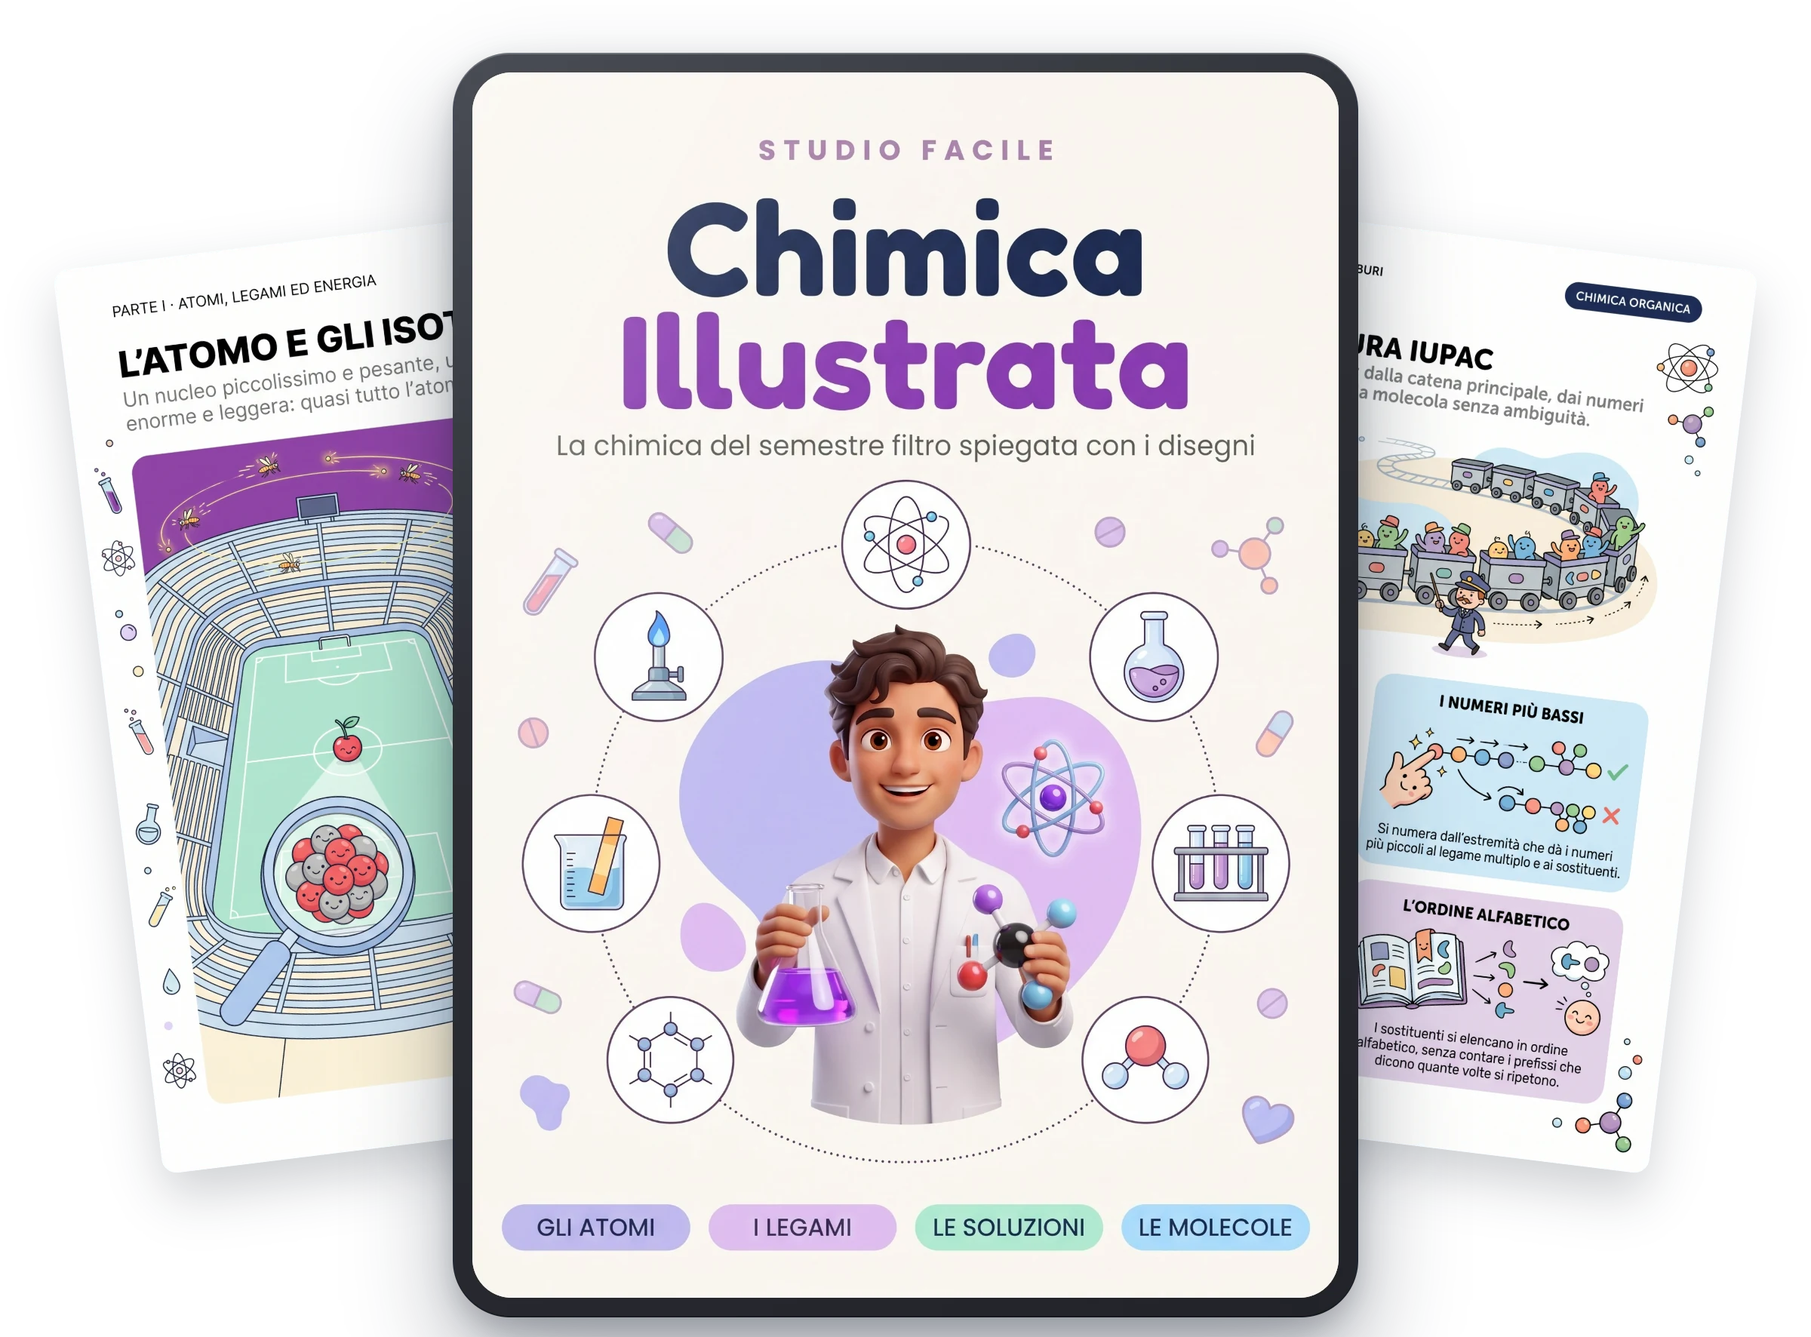
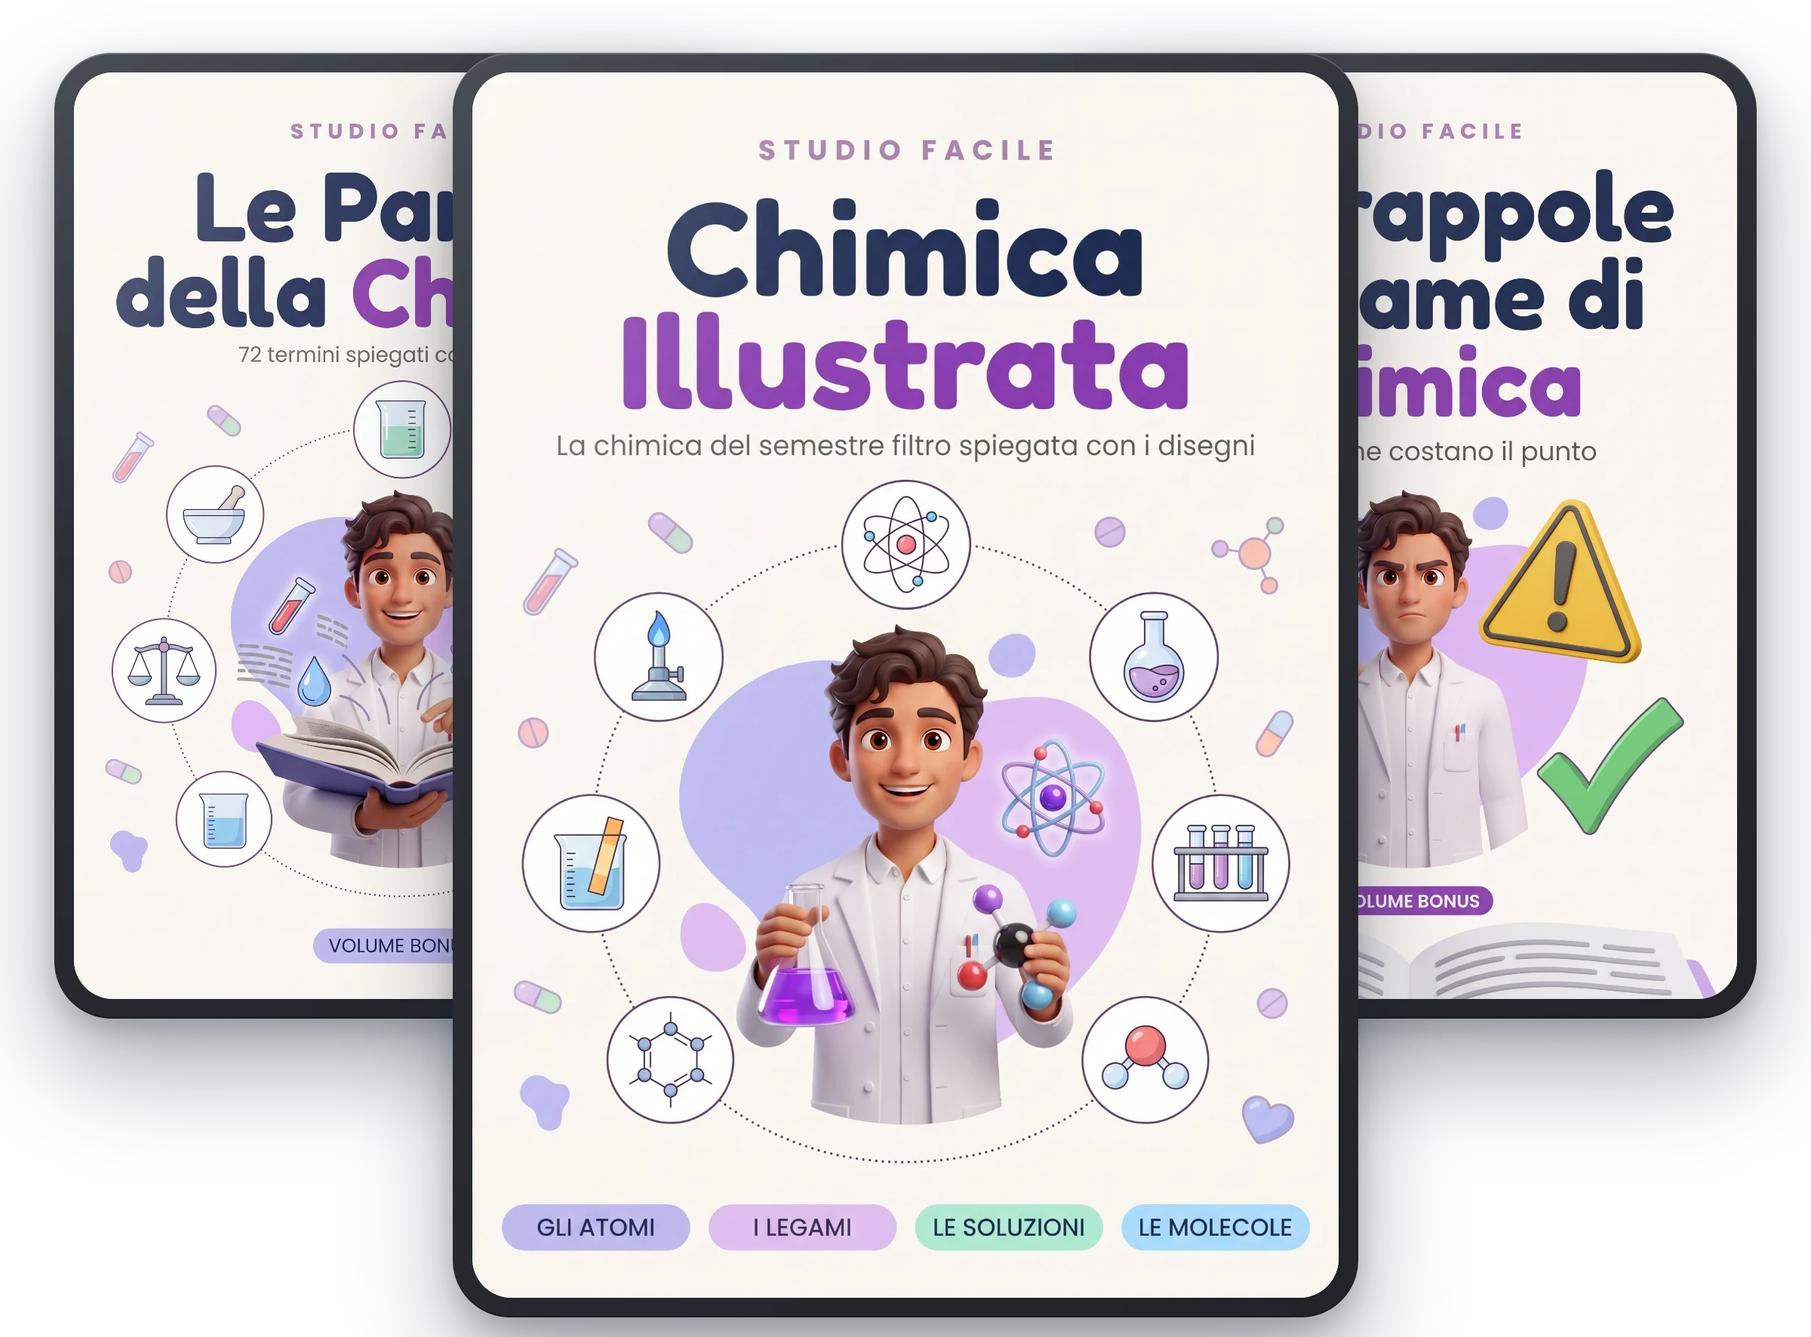
chimica: i due bonus esistono, e stanno nell'eroe accanto al libro
I bonus della landing erano «Le Parole della Chimica», mai scritto, e «Quiz
di Chimica», solo una banca dati senza PDF. Adesso sono due volumi veri da
venti pagine, generati con il motore dei bonus di fisica:

  Le Parole della Chimica          72 termini, quattro per pagina
  Le Trappole d'Esame di Chimica   18 errori che costano il punto

L'eroe usa la geometria dei kit di tutte le altre landing (kits_mockup.py):
il libro grande al centro e i due bonus ai lati, tutti e tre nel tablet.
Prima erano due fogli sciolti dietro al tablet e la pagina non sembrava
della stessa collana.

Le schede dei bonus passano da testo con un'icona a .bonus-item-with-image,
con la copertina vera e due pagine da sfogliare per ognuno — quello che il
TODO del generatore chiedeva da settembre: mai copertine finte.

Changed region(s): [[0.0, 0.031, 0.2812, 0.9001], [0.7188, 0.031, 1.0, 0.9001]]

diff --git a/chimica.html b/chimica.html
@@ -2089,7 +2089,7 @@
     }
   </style>
   <script type="application/ld+json">
-{"@context": "https://schema.org", "@graph": [{"@type": "Product", "name": "Kit di Chimica Illustrata", "brand": {"@type": "Brand", "name": "Studio Facile"}, "description": "La chimica in 156 pagine illustrate, 7 parti e 69 capitoli: atomi e legami, soluzioni, reazioni ed equilibrio, acidi e basi, idrocarburi, gruppi funzionali, biomolecole. Più 2 bonus, in italiano.", "image": "https://www.studiofacilebook.com/mockups/chimica/og.jpg", "offers": {"@type": "Offer", "price": "19.90", "priceCurrency": "EUR", "availability": "https://schema.org/InStock", "url": "https://checkout.studiofacilebook.com/checkout/kit-chimica-illustrata", "hasMerchantReturnPolicy": {"@type": "MerchantReturnPolicy", "returnPolicyCategory": "https://schema.org/MerchantReturnFiniteReturnWindow", "merchantReturnDays": 30, "applicableCountry": "IT"}}}, {"@type": "FAQPage", "mainEntity": [{"@type": "Question", "name": "Come riceverò il materiale?", "acceptedAnswer": {"@type": "Answer", "text": "Dopo l'acquisto ricevi un'email automatica con Chimica Illustrata e i due bonus, 300 Quiz di Biologia e Ripasso Rapido di Fisica. Sono PDF in alta risoluzione, da scaricare, stampare o consultare da telefono, tablet o computer."}}, {"@type": "Question", "name": "Il pagamento è mensile o unico?", "acceptedAnswer": {"@type": "Answer", "text": "Pagamento unico di 19,90€. Nessuna rata, nessun addebito ricorrente, nessuna sorpresa. Paghi una volta e il materiale è tuo per sempre."}}, {"@type": "Question", "name": "Serve partire da zero o bisogna già sapere qualcosa?", "acceptedAnswer": {"@type": "Answer", "text": "Si parte da zero: la prima parte comincia dall'atomo, dagli isotopi e dalla configurazione elettronica, e arriva alla mole e ai legami prima di qualsiasi calcolo. Ogni pagina mette accanto al disegno che spiega l'idea le formule e i numeri che servono."}}, {"@type": "Question", "name": "Va bene per il test d'ingresso e per il semestre filtro?", "acceptedAnswer": {"@type": "Answer", "text": "Sì. Le sette parti seguono, nello stesso ordine, le sette unità didattiche del Syllabus ministeriale 2026 di Chimica e propedeutica biochimica, e ogni voce del programma ha la sua pagina. In fondo ci sono 30 domande stile esame con le soluzioni, e il bonus di biologia aggiunge 300 quiz con 3 simulazioni. Gli stessi argomenti sono quelli del liceo, della maturità, dei test d'ingresso come il TOLC e del primo esame di Chimica all'università."}}, {"@type": "Question", "name": "Le formule e i numeri sono affidabili?", "acceptedAnswer": {"@type": "Answer", "text": "Sì. Formule, equazioni, costanti ed esempi numerici sono composti al computer e ricalcolati uno per uno, non ricopiati a mano; le masse atomiche sono i valori standard IUPAC. In un esame a crocette un pedice o una virgola sbagliati sono una risposta sbagliata: per questo i numeri del libro non si toccano."}}, {"@type": "Question", "name": "Posso stampare il materiale?", "acceptedAnswer": {"@type": "Answer", "text": "Sì, per uso personale e senza limiti. I PDF sono in alta risoluzione, da stampare, sottolineare e ripassare prima di una verifica o di un esame."}}]}]}
+{"@context": "https://schema.org", "@graph": [{"@type": "Product", "name": "Kit di Chimica Illustrata", "brand": {"@type": "Brand", "name": "Studio Facile"}, "description": "La chimica in 156 pagine illustrate, 7 parti e 69 capitoli: atomi e legami, soluzioni, reazioni ed equilibrio, acidi e basi, idrocarburi, gruppi funzionali, biomolecole. Più 2 bonus, in italiano.", "image": "https://www.studiofacilebook.com/mockups/chimica/og.jpg", "offers": {"@type": "Offer", "price": "19.90", "priceCurrency": "EUR", "availability": "https://schema.org/InStock", "url": "https://checkout.studiofacilebook.com/checkout/kit-chimica-illustrata", "hasMerchantReturnPolicy": {"@type": "MerchantReturnPolicy", "returnPolicyCategory": "https://schema.org/MerchantReturnFiniteReturnWindow", "merchantReturnDays": 30, "applicableCountry": "IT"}}}, {"@type": "FAQPage", "mainEntity": [{"@type": "Question", "name": "Come riceverò il materiale?", "acceptedAnswer": {"@type": "Answer", "text": "Dopo l'acquisto ricevi un'email automatica con Chimica Illustrata e i due bonus, Le Parole della Chimica e Le Trappole d'Esame di Chimica. Sono PDF in alta risoluzione, da scaricare, stampare o consultare da telefono, tablet o computer."}}, {"@type": "Question", "name": "Il pagamento è mensile o unico?", "acceptedAnswer": {"@type": "Answer", "text": "Pagamento unico di 19,90€. Nessuna rata, nessun addebito ricorrente, nessuna sorpresa. Paghi una volta e il materiale è tuo per sempre."}}, {"@type": "Question", "name": "Serve partire da zero o bisogna già sapere qualcosa?", "acceptedAnswer": {"@type": "Answer", "text": "Si parte da zero: la prima parte comincia dall'atomo, dagli isotopi e dalla configurazione elettronica, e arriva alla mole e ai legami prima di qualsiasi calcolo. Ogni pagina mette accanto al disegno che spiega l'idea le formule e i numeri che servono."}}, {"@type": "Question", "name": "Va bene per il test d'ingresso e per il semestre filtro?", "acceptedAnswer": {"@type": "Answer", "text": "Sì. Le sette parti seguono, nello stesso ordine, le sette unità didattiche del Syllabus ministeriale 2026 di Chimica e propedeutica biochimica, e ogni voce del programma ha la sua pagina. In fondo ci sono 30 domande stile esame con le soluzioni, e il bonus delle trappole ti fa vedere i diciotto errori che costano il punto. Gli stessi argomenti sono quelli del liceo, della maturità, dei test d'ingresso come il TOLC e del primo esame di Chimica all'università."}}, {"@type": "Question", "name": "Le formule e i numeri sono affidabili?", "acceptedAnswer": {"@type": "Answer", "text": "Sì. Formule, equazioni, costanti ed esempi numerici sono composti al computer e ricalcolati uno per uno, non ricopiati a mano; le masse atomiche sono i valori standard IUPAC. In un esame a crocette un pedice o una virgola sbagliati sono una risposta sbagliata: per questo i numeri del libro non si toccano."}}, {"@type": "Question", "name": "Posso stampare il materiale?", "acceptedAnswer": {"@type": "Answer", "text": "Sì, per uso personale e senza limiti. I PDF sono in alta risoluzione, da stampare, sottolineare e ripassare prima di una verifica o di un esame."}}]}]}
   </script>
 <!-- Brevo: seguimiento web (visitas y clics de compra para las automatizaciones) -->
 <script src="https://cdn.brevo.com/js/sdk-loader.js" async></script>
@@ -2131,7 +2131,7 @@
   <section class="hero">
     <div class="hero-content">
       <div class="hero-mockup">
-        <img src="https://czocbnyoenjbpxmcqobn.supabase.co/storage/v1/object/public/algoritmia-img/studiofacile/mockups/chimica/hero.webp?v=593ffae5" alt="Chimica Illustrata: la copertina nel tablet, con la tavola periodica e le domande stile esame"
+        <img src="https://czocbnyoenjbpxmcqobn.supabase.co/storage/v1/object/public/algoritmia-img/studiofacile/mockups/chimica/hero.webp?v=4855bd68" alt="Chimica Illustrata con i due bonus: Le Parole della Chimica e Le Trappole d’Esame"
              width="1200" height="886" loading="eager" fetchpriority="high" decoding="async">
       </div>
       <p class="hero-social">
@@ -2488,43 +2488,43 @@
       <div class="bonus-grid">
         <div class="bonus-item-with-image">
           <div class="bonus-mockup">
-            <img src="https://czocbnyoenjbpxmcqobn.supabase.co/storage/v1/object/public/algoritmia-img/studiofacile/mockups/biologia/bonus-quiz.webp?v=65608500" alt="300 Quiz di Biologia: 300 domande con la soluzione spiegata" width="720" height="1000" loading="lazy" decoding="async">
+            <img src="https://czocbnyoenjbpxmcqobn.supabase.co/storage/v1/object/public/algoritmia-img/studiofacile/mockups/chimica/bonus-parole.webp?v=c6538861" alt="Le Parole della Chimica: 72 termini spiegati con i disegni" width="720" height="1000" loading="lazy" decoding="async">
           </div>
           <div class="bonus-text">
-            <h3>BONUS 1: &ldquo;300 Quiz di Biologia&rdquo;</h3>
+            <h3>BONUS 1: &ldquo;Le Parole della Chimica&rdquo;</h3>
             <p class="value">Valore singolo: 17,90&euro;</p>
-            <ul>
-              <li>300 domande con la soluzione spiegata</li>
-              <li>Divise per unit&agrave; del programma</li>
-              <li>A risposta multipla e a completamento, come all&rsquo;esame</li>
-              <li>3 simulazioni complete a tempo</li>
-            </ul>
-            <p>Al semestre filtro la biologia si d&agrave; insieme alla chimica: qui ti alleni sul formato vero dell&rsquo;esame e capisci subito dove sbagli.</p>
-            <div class="bonus-sfoglia"><figure><img src="https://czocbnyoenjbpxmcqobn.supabase.co/storage/v1/object/public/algoritmia-img/studiofacile/anteprime/quizbio_01.webp?v=9e2c0905" alt="Una pagina di domande con le soluzioni spiegate" width="1100" height="1557" loading="lazy" decoding="async"><figcaption>Ogni domanda con la sua spiegazione</figcaption></figure><figure><img src="https://czocbnyoenjbpxmcqobn.supabase.co/storage/v1/object/public/algoritmia-img/studiofacile/anteprime/quizbio_02.webp?v=f4d876f3" alt="Una simulazione completa a tempo" width="1100" height="1557" loading="lazy" decoding="async"><figcaption>Simulazioni sul formato dell&rsquo;esame</figcaption></figure></div>
+            <p>72 termini, quattro per pagina, ognuno con il suo disegno, la definizione in parole semplici e un esempio vero. Le parole che all&rsquo;esame si danno per scontate &mdash; e le coppie che si confondono sempre, molarit&agrave; e molalit&agrave;, osmolarit&agrave; e tonicit&agrave;, enantiomeri e diastereoisomeri, stanno una accanto all&rsquo;altra apposta.</p>
+            <div class="bonus-sfoglia"><figure><img src="https://czocbnyoenjbpxmcqobn.supabase.co/storage/v1/object/public/algoritmia-img/studiofacile/anteprime/chimica_parole_p03.webp?v=d4e3b742" alt="Numero atomico, numero di massa, isotopo e orbitale spiegati con i disegni" width="1100" height="1473" loading="lazy" decoding="async"><figcaption>Un disegno per ogni parola</figcaption></figure><figure><img src="https://czocbnyoenjbpxmcqobn.supabase.co/storage/v1/object/public/algoritmia-img/studiofacile/anteprime/chimica_parole_p10.webp?v=bfde4325" alt="I termini degli acidi e delle basi" width="1100" height="1473" loading="lazy" decoding="async"><figcaption>Definizione ed esempio, sempre</figcaption></figure></div>
           </div>
         </div>
 
         <div class="bonus-item-with-image">
           <div class="bonus-mockup">
-            <img src="https://czocbnyoenjbpxmcqobn.supabase.co/storage/v1/object/public/algoritmia-img/studiofacile/mockups/fisica/bonus-ripasso.webp?v=cef68325" alt="Ripasso Rapido di Fisica: 30 schede di ripasso" width="720" height="1000" loading="lazy" decoding="async">
+            <img src="https://czocbnyoenjbpxmcqobn.supabase.co/storage/v1/object/public/algoritmia-img/studiofacile/mockups/chimica/bonus-trappole.webp?v=60b97baf" alt="Le Trappole d'Esame di Chimica: 18 errori che costano il punto" width="720" height="1000" loading="lazy" decoding="async">
           </div>
           <div class="bonus-text">
-            <h3>BONUS 2: &ldquo;Ripasso Rapido di Fisica&rdquo;</h3>
+            <h3>BONUS 2: &ldquo;Le Trappole d'Esame di Chimica&rdquo;</h3>
             <p class="value">Valore singolo: 16,90&euro;</p>
-            <p>30 schede, una per argomento, con la formula, il disegno e la trappola che torna sempre. La terza materia del semestre filtro, ripassata in un pomeriggio.</p>
-            <div class="bonus-sfoglia"><figure><img src="https://czocbnyoenjbpxmcqobn.supabase.co/storage/v1/object/public/algoritmia-img/studiofacile/anteprime/fisica_ripasso_01.webp?v=c69bfe91" alt="Una scheda di ripasso di fisica" width="1100" height="1557" loading="lazy" decoding="async"><figcaption>Una scheda per argomento</figcaption></figure><figure><img src="https://czocbnyoenjbpxmcqobn.supabase.co/storage/v1/object/public/algoritmia-img/studiofacile/anteprime/fisica_ripasso_02.webp?v=6e4339b6" alt="Formule, disegno e trappole d&rsquo;esame" width="1100" height="1557" loading="lazy" decoding="async"><figcaption>La formula, il disegno e la trappola</figcaption></figure></div>
+            <ul>
+              <li>La domanda com&rsquo;&egrave; scritta davvero al compito</li>
+              <li>La risposta che viene istintiva &mdash; e perch&eacute; &egrave; sbagliata</li>
+              <li>I quattro passaggi per non caderci</li>
+              <li>Una domanda lampo, con la risposta da coprire con la mano</li>
+            </ul>
+            <p>Diciotto schede sugli errori che costano il punto anche a chi ha studiato: neutro non vuol dire sette, il pedice non si tocca, forte non vuol dire concentrato.</p>
+            <div class="bonus-sfoglia"><figure><img src="https://czocbnyoenjbpxmcqobn.supabase.co/storage/v1/object/public/algoritmia-img/studiofacile/anteprime/chimica_trappole_p03.webp?v=7b685dd0" alt="Neutro non vuol dire sette: la trappola del pH dell&rsquo;acqua pura" width="1100" height="1473" loading="lazy" decoding="async"><figcaption>La trappola, e come si vede</figcaption></figure><figure><img src="https://czocbnyoenjbpxmcqobn.supabase.co/storage/v1/object/public/algoritmia-img/studiofacile/anteprime/chimica_trappole_p12.webp?v=c4d30213" alt="Diluire dieci volte non dimezza il pH" width="1100" height="1473" loading="lazy" decoding="async"><figcaption>Una domanda con la risposta coperta</figcaption></figure></div>
           </div>
         </div>
       </div>
 
       <!-- DECISION BOX -->
       <div class="decision-box" id="offerta">
-        <img src="https://czocbnyoenjbpxmcqobn.supabase.co/storage/v1/object/public/algoritmia-img/studiofacile/mockups/chimica/hero.webp?v=593ffae5" alt="Chimica Illustrata con i due bonus in regalo" class="db-mockup" width="1200" height="886" loading="lazy" decoding="async">
+        <img src="https://czocbnyoenjbpxmcqobn.supabase.co/storage/v1/object/public/algoritmia-img/studiofacile/mockups/chimica/hero.webp?v=4855bd68" alt="Chimica Illustrata con i due bonus in regalo" class="db-mockup" width="1200" height="886" loading="lazy" decoding="async">
         <h3 class="db-title">Chimica Illustrata + 2 Bonus in Regalo</h3>
         <ul class="db-checklist">
           <li><span class="db-check"><svg viewBox="0 0 24 24"><polyline points="20 6 9 17 4 12"/></svg></span>Chimica Illustrata: 156 pagine illustrate<span class="db-price-val">56,20€</span></li>
-          <li><span class="db-check"><svg viewBox="0 0 24 24"><polyline points="20 6 9 17 4 12"/></svg></span>Bonus 1: 300 Quiz di Biologia<span class="db-price-val">17,90€</span></li>
-          <li><span class="db-check"><svg viewBox="0 0 24 24"><polyline points="20 6 9 17 4 12"/></svg></span>Bonus 2: Ripasso Rapido di Fisica<span class="db-price-val">16,90€</span></li>
+          <li><span class="db-check"><svg viewBox="0 0 24 24"><polyline points="20 6 9 17 4 12"/></svg></span>Bonus 1: Le Parole della Chimica<span class="db-price-val">17,90€</span></li>
+          <li><span class="db-check"><svg viewBox="0 0 24 24"><polyline points="20 6 9 17 4 12"/></svg></span>Bonus 2: Le Trappole d'Esame di Chimica<span class="db-price-val">16,90€</span></li>
           <li><span class="db-check"><svg viewBox="0 0 24 24"><polyline points="20 6 9 17 4 12"/></svg></span>PDF in alta risoluzione per stampare<span class="db-price-val">Incluso</span></li>
         </ul>
         <div class="db-anchoring">
@@ -2600,8 +2600,8 @@
       <ul class="recap-list">
         <li>Chimica Illustrata: 156 pagine illustrate in 7 parti e 69 capitoli, dall'atomo al DNA, con formule e numeri verificati</li>
         <li>30 domande stile esame con le soluzioni, tavola periodica e tabelle delle costanti</li>
-        <li>Bonus 1: &ldquo;300 Quiz di Biologia&rdquo;, 300 domande con le soluzioni spiegate e 3 simulazioni (valore 17,90€)</li>
-        <li>Bonus 2: &ldquo;Ripasso Rapido di Fisica&rdquo;, 30 schede di ripasso con formula, disegno e trappole d&rsquo;esame (valore 16,90€)</li>
+        <li>Bonus 1: &ldquo;Le Parole della Chimica&rdquo;, 72 termini con disegno, definizione ed esempio (valore 17,90€)</li>
+        <li>Bonus 2: &ldquo;Le Trappole d'Esame di Chimica&rdquo;, 18 schede sugli errori che costano il punto all&rsquo;esame (valore 16,90€)</li>
         <li>Consegna via email: accesso immediato, senza spedizioni né attese</li>
         <li>Garanzia di 30 giorni senza domande: provi senza rischio</li>
         <li>PDF in alta risoluzione: stampa, sottolinea, portalo ovunque</li>
@@ -2640,7 +2640,7 @@
             Come riceverò il materiale?
           </button>
           <div class="faq-answer" id="faq1" hidden>
-            <p>Dopo l'acquisto ricevi un'email automatica con Chimica Illustrata e i due bonus, 300 Quiz di Biologia e Ripasso Rapido di Fisica. Sono PDF in alta risoluzione, da scaricare, stampare o consultare da telefono, tablet o computer.</p>
+            <p>Dopo l'acquisto ricevi un'email automatica con Chimica Illustrata e i due bonus, Le Parole della Chimica e Le Trappole d'Esame di Chimica. Sono PDF in alta risoluzione, da scaricare, stampare o consultare da telefono, tablet o computer.</p>
           </div>
         </div>
         <div class="faq-item">
@@ -2664,7 +2664,7 @@
             Va bene per il test d'ingresso e per il semestre filtro?
           </button>
           <div class="faq-answer" id="faq4" hidden>
-            <p>Sì. Le sette parti seguono, nello stesso ordine, le sette unità didattiche del Syllabus ministeriale 2026 di Chimica e propedeutica biochimica, e ogni voce del programma ha la sua pagina. In fondo ci sono 30 domande stile esame con le soluzioni, e il bonus di biologia aggiunge 300 quiz con 3 simulazioni. Gli stessi argomenti sono quelli del liceo, della maturità, dei test d'ingresso come il TOLC e del primo esame di Chimica all'università.</p>
+            <p>Sì. Le sette parti seguono, nello stesso ordine, le sette unità didattiche del Syllabus ministeriale 2026 di Chimica e propedeutica biochimica, e ogni voce del programma ha la sua pagina. In fondo ci sono 30 domande stile esame con le soluzioni, e il bonus delle trappole ti fa vedere i diciotto errori che costano il punto. Gli stessi argomenti sono quelli del liceo, della maturità, dei test d'ingresso come il TOLC e del primo esame di Chimica all'università.</p>
           </div>
         </div>
         <div class="faq-item">
